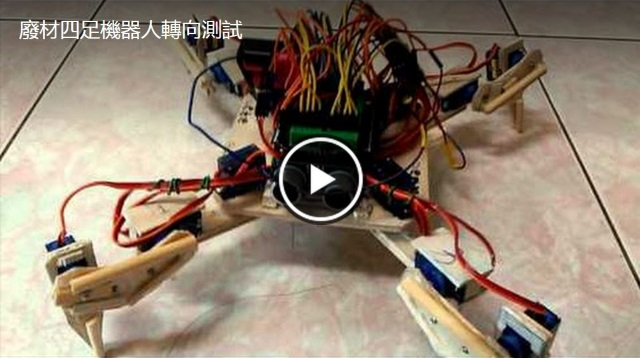
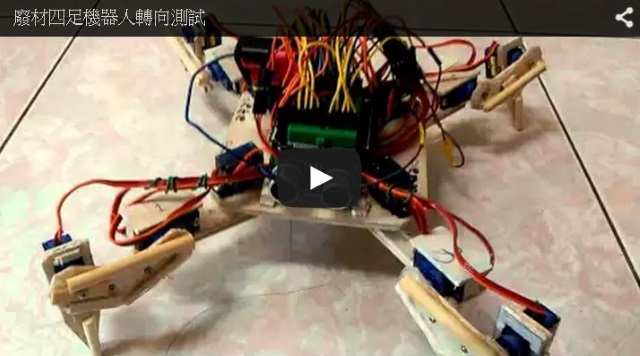
更新 README

diff --git a/README.md b/README.md
@@ -8,9 +8,14 @@
 
 [![廢材四足機器人轉向測試](picture3.jpg)](https://www.youtube.com/watch?v=Sq3oHFkE5Uk)
 
+來段大腿舞 …
+
+[![廢材四足機器人抬腿測試](picture4.jpg)](https://www.youtube.com/watch?v=LYEpD1pIuvQ)
+
 前進、後退方式還有待加強 … 
 
 [![廢材四足機器人](picture.jpg)](https://www.youtube.com/watch?v=mxfnD08Qb5k)
+
 
 材料 …
 
